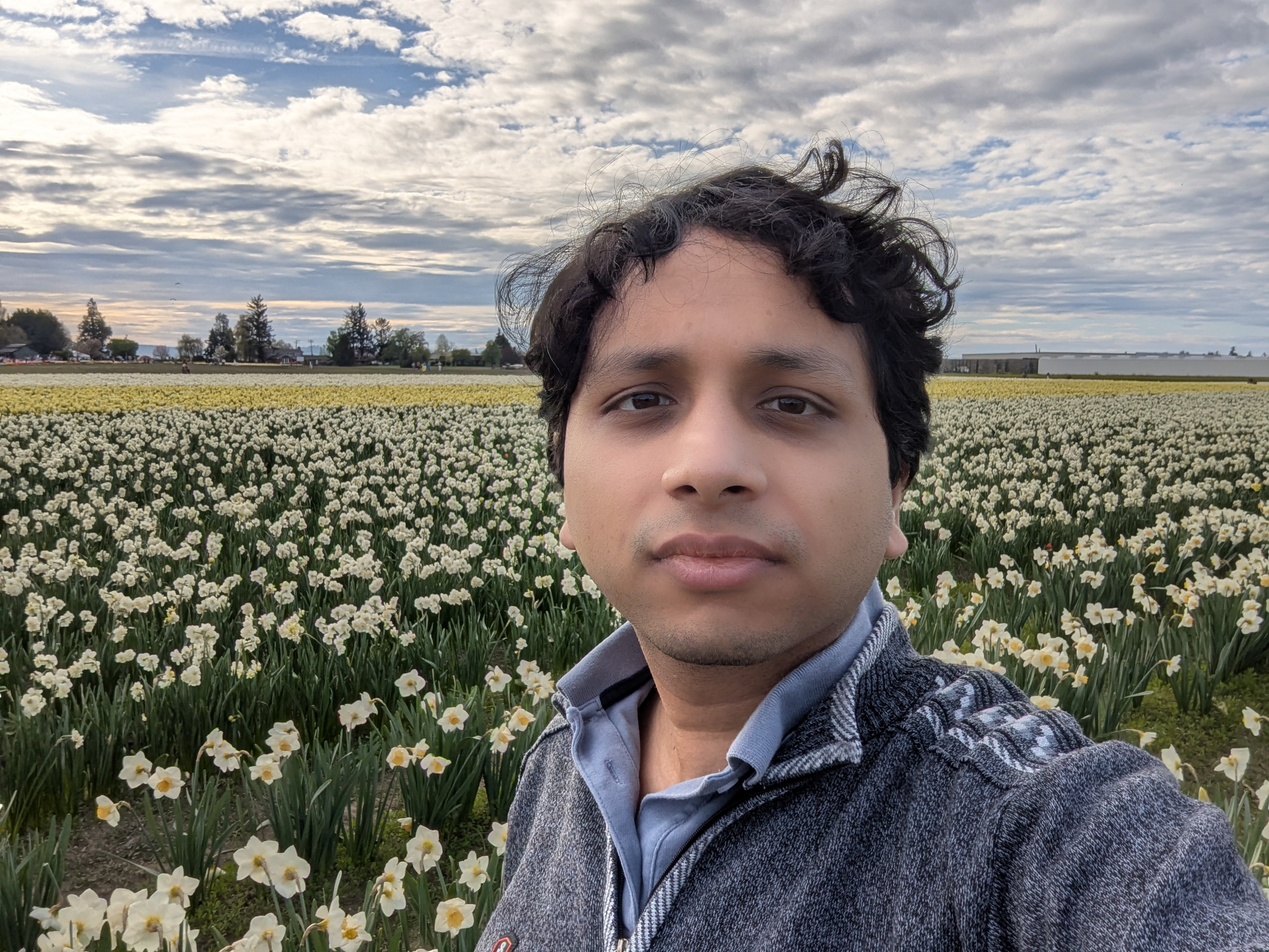
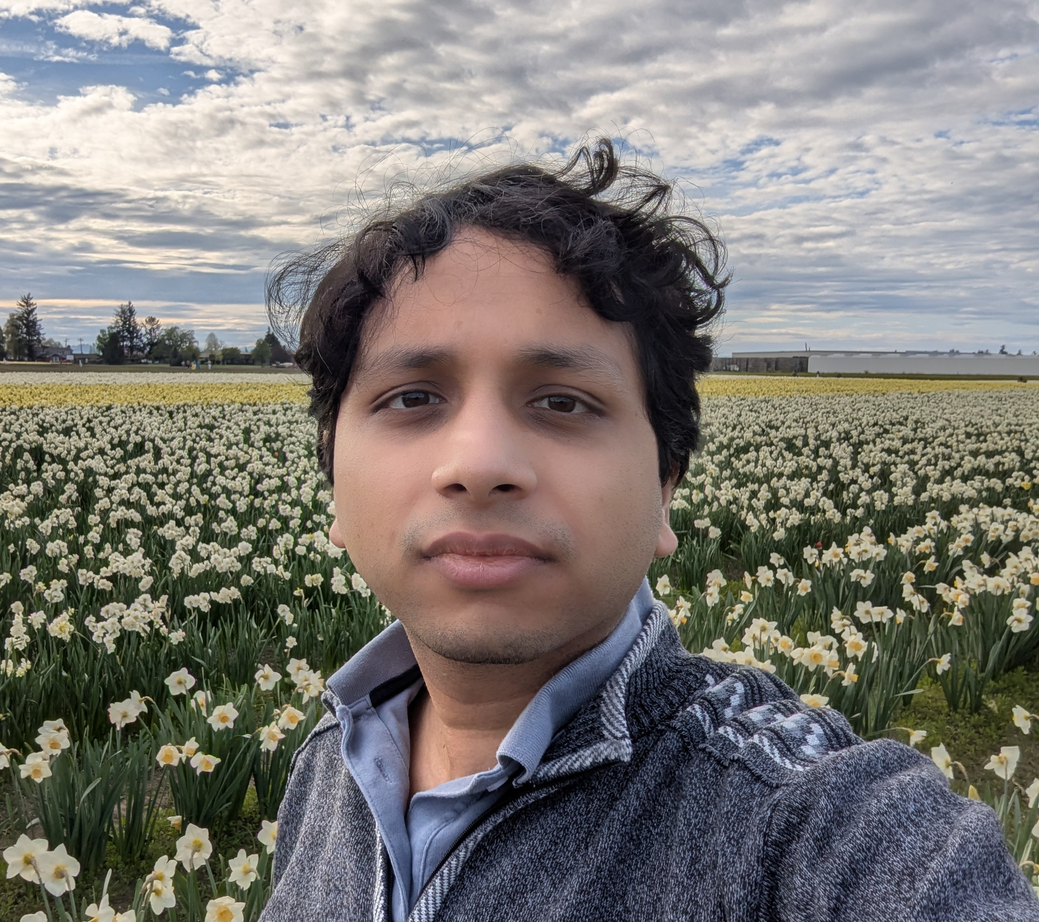
fixed img

diff --git a/index.html b/index.html
@@ -112,7 +112,7 @@
 
         
         <div class="portrait" style="background-image: url('https://avipartho.github.io/img/me3.jpg');"></div>
-        <meta itemprop="image" content="https://avipartho.github.io/img/me2.jpg"> 
+        <meta itemprop="image" content="https://avipartho.github.io/img/me3.jpg"> 
         
         <div class="portrait-title">
           <h2 itemprop="name">Avijit Mitra</h2>
